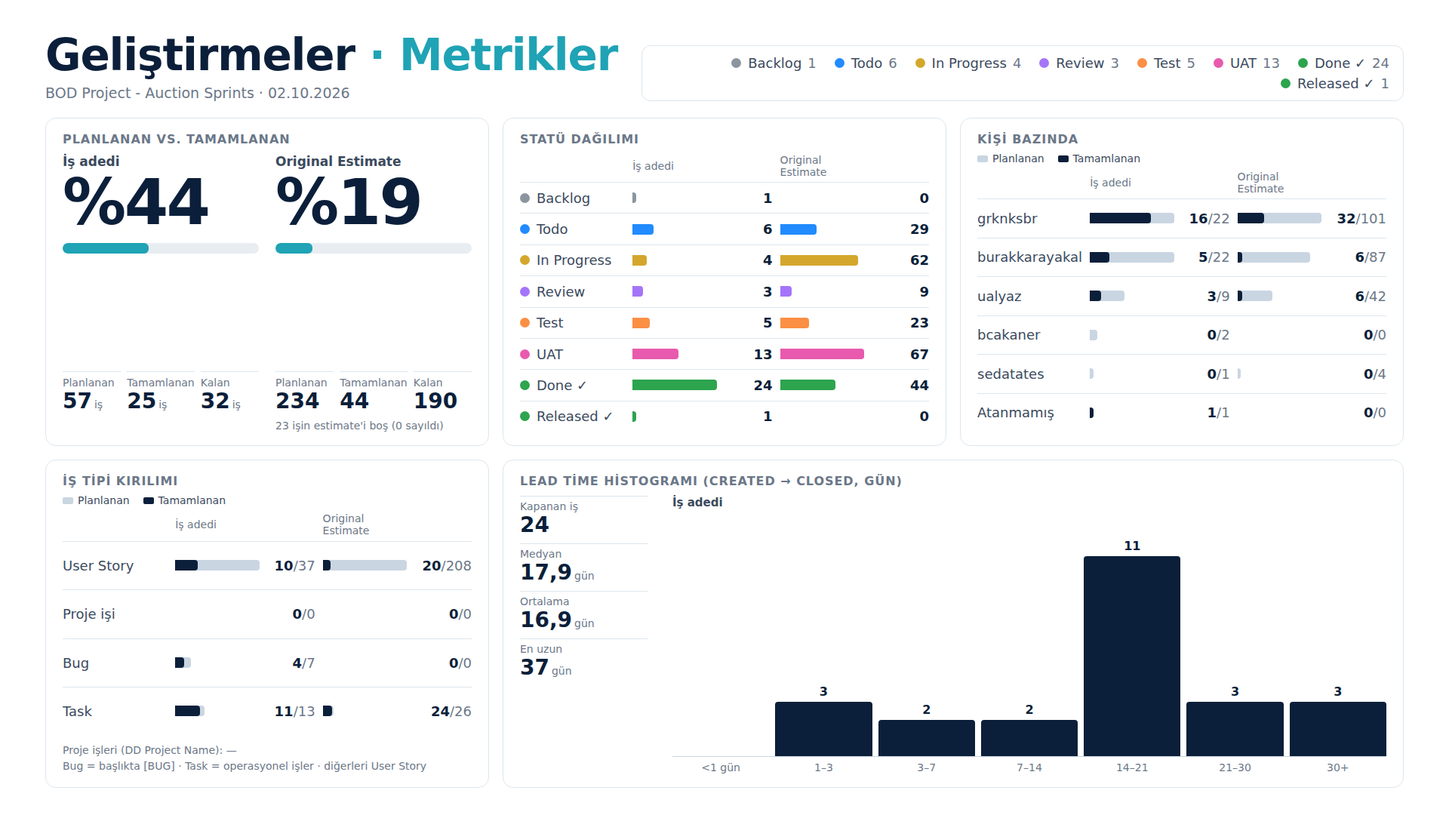
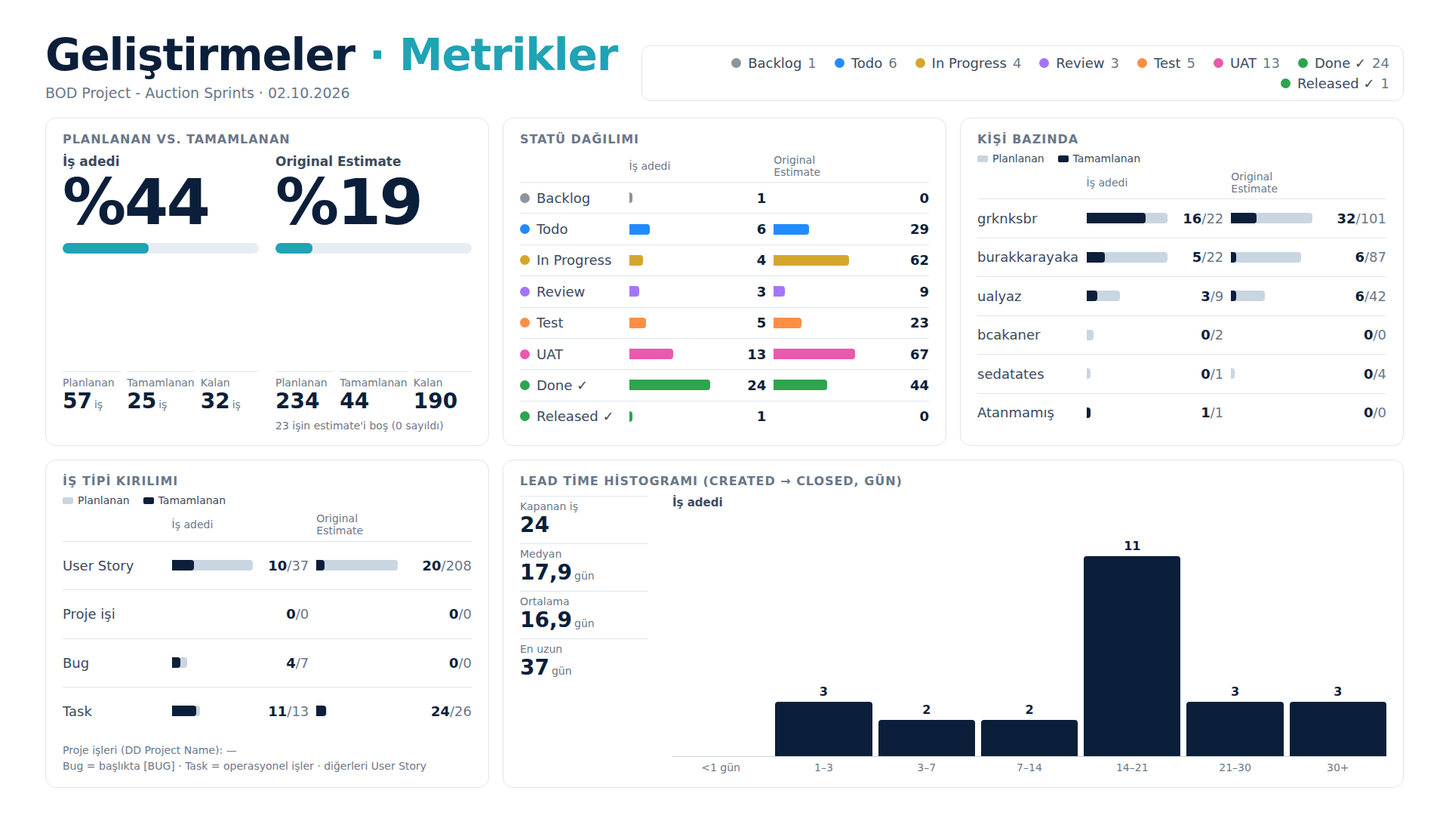
Add Back Office slides; widen value column and balance item columns
Claude-Session: https://claude.ai/code/session_014SYUQQBmb2NC56QaszpaqB

diff --git a/sunum/back-office/back-office-slaytlar.html b/sunum/back-office/back-office-slaytlar.html
@@ -1,0 +1,199 @@
+<!doctype html>
+<html lang="tr">
+<head>
+<meta charset="utf-8">
+<meta name="viewport" content="width=device-width, initial-scale=1">
+<title>Geliştirmeler Slaytları</title>
+<link rel="preconnect" href="https://fonts.googleapis.com">
+<link href="https://fonts.googleapis.com/css2?family=Plus+Jakarta+Sans:wght@400;500;600;800&display=swap" rel="stylesheet">
+<style>
+:root { --bg:#E9EDF2; --slide:#FFFFFF; --ink:#0B1F3A; --ink-2:#3B4A5E; --muted:#6B7788;
+  --rule:#DCE6EE; --accent:#1FA3B5; --track:#E8EDF2; --plan:#C9D5E1; --s:1; }
+* { box-sizing:border-box; }
+body { margin:0; background:var(--bg); color:var(--ink);
+  font-family:"Plus Jakarta Sans", Inter, system-ui, -apple-system, "Segoe UI", sans-serif; }
+.deck { display:flex; flex-direction:column; align-items:center; gap:24px; padding:24px 0; }
+.frame { width:calc(1920px * var(--s)); height:calc(1080px * var(--s)); overflow:hidden;
+  box-shadow:0 2px 12px rgba(11,31,58,.12); }
+.slide { width:1920px; height:1080px; background:var(--slide); padding:44px 60px 36px;
+  transform:scale(var(--s)); transform-origin:0 0; display:flex; flex-direction:column; }
+header { display:flex; align-items:flex-end; justify-content:space-between; gap:32px; margin-bottom:22px; }
+h1 { white-space:nowrap; font-size:58px; font-weight:800; letter-spacing:-.02em; margin:0; line-height:1; }
+h1 span { color:var(--accent); font-weight:600; }
+.sub { color:var(--muted); font-size:19px; margin-top:10px; white-space:nowrap; }
+.legend { list-style:none; margin:0; padding:12px 18px; display:flex; flex-wrap:wrap; gap:6px 24px;
+  border:1px solid var(--rule); border-radius:12px; font-size:18px; color:var(--ink-2); justify-content:flex-end; min-width:0; flex:0 1 auto; }
+.legend li { display:flex; align-items:center; }
+.legend .muted { margin-left:8px; color:var(--muted); font-variant-numeric:tabular-nums; }
+.dot { display:inline-block; width:13px; height:13px; border-radius:50%; background:var(--c); margin-right:9px; flex:none; }
+/* metrikler */
+.grid { flex:1; min-height:0; display:grid; grid-template-columns:repeat(3, minmax(0,1fr));
+  grid-template-rows:minmax(0,1fr) minmax(0,1fr); gap:18px; }
+.panel { border:1px solid var(--rule); border-radius:14px; padding:18px 22px; display:flex; flex-direction:column; min-height:0; }
+.panel.wide { grid-column:span 2; }
+.ptitle { font-size:16px; font-weight:600; text-transform:uppercase; letter-spacing:.06em; color:var(--muted); margin-bottom:10px; }
+.pfoot { font-size:14px; color:var(--muted); margin-top:auto; padding-top:10px; line-height:1.45; }
+.pfoot b { color:var(--ink); }
+.comps { display:grid; grid-template-columns:1fr 1fr; gap:22px; flex:1; }
+.comp { display:flex; flex-direction:column; }
+.clabel { font-size:17px; color:var(--ink-2); font-weight:600; }
+.chero { font-size:84px; font-weight:800; line-height:1.05; letter-spacing:-.03em; font-variant-numeric:tabular-nums; }
+.bar { height:14px; border-radius:7px; background:var(--track); overflow:hidden; margin:10px 0 auto; }
+.bar i { display:block; height:100%; background:var(--accent); border-radius:6px; }
+.cnums { display:grid; grid-template-columns:repeat(3,1fr); gap:8px; }
+.cnums div { display:flex; flex-direction:column; border-top:1px solid var(--rule); padding-top:6px; }
+.cnums span { font-size:14px; color:var(--muted); }
+.cnums b { font-size:28px; font-variant-numeric:tabular-nums; white-space:nowrap; }
+.cnums small, .lstats small { font-size:14px; font-weight:400; color:var(--muted); margin-left:3px; }
+.cnote { font-size:14px; color:var(--muted); margin-top:8px; }
+.dual { display:flex; flex-direction:column; flex:1; justify-content:space-evenly; }
+.dhead, .drow { display:grid; grid-template-columns:minmax(0,1.25fr) minmax(0,1fr) 64px minmax(0,1fr) 88px;
+  column-gap:10px; align-items:center; }
+.dhead { font-size:14px; color:var(--muted); padding-bottom:5px; }
+.drow { border-top:1px solid var(--rule); padding:6px 0; font-size:18px; flex:1; max-height:64px; }
+.dl { overflow:hidden; text-overflow:ellipsis; white-space:nowrap; color:var(--ink-2); display:flex; align-items:center; }
+.db { position:relative; height:14px; }
+.tr, .fi { position:absolute; left:0; top:0; height:100%; border-radius:0 4px 4px 0; }
+.tr { background:var(--plan); } .fi { background:var(--ink); }
+.dv { text-align:right; font-weight:600; font-variant-numeric:tabular-nums; white-space:nowrap; }
+.dv span { color:var(--muted); font-weight:400; }
+.pkey { display:flex; gap:18px; font-size:14px; color:var(--ink-2); margin:-2px 0 8px; }
+.pkey span::before { content:""; display:inline-block; width:14px; height:9px; border-radius:2px; margin-right:6px; background:var(--k); }
+.lead { display:grid; grid-template-columns:170px 1fr; gap:32px; flex:1; min-height:0; }
+.lstats { display:flex; flex-direction:column; gap:8px; }
+.lstats div { display:flex; flex-direction:column; border-top:1px solid var(--rule); padding-top:5px; }
+.lstats span { font-size:14px; color:var(--muted); }
+.lstats b { font-size:28px; font-variant-numeric:tabular-nums; }
+.hist { display:flex; flex-direction:column; min-height:0; }
+.htitle { font-size:15px; color:var(--ink-2); font-weight:600; margin-bottom:4px; }
+.hplot { flex:1; min-height:100px; display:flex; align-items:flex-end; gap:8px; border-bottom:1px solid var(--plan); }
+.hcol { flex:1; height:100%; display:flex; flex-direction:column; justify-content:flex-end; }
+.hval { text-align:center; font-size:16px; font-weight:600; font-variant-numeric:tabular-nums; margin-bottom:4px; }
+.hbar { border-radius:4px 4px 0 0; }
+.hx { display:flex; gap:8px; font-size:14px; color:var(--muted); margin-top:6px; }
+.hx div { flex:1; text-align:center; white-space:nowrap; }
+.hunit { font-size:13px; color:var(--muted); text-align:right; margin-top:2px; }
+.emptymsg { margin:auto; font-size:20px; color:var(--ink-2); }
+/* maddeler */
+.list { flex:1; min-height:0; list-style:none; margin:0; padding:0; columns:3; column-gap:56px;
+  column-fill:auto; column-rule:1px solid var(--accent); --fs:22px; overflow:hidden; }
+.list li { break-inside:avoid; display:flex; align-items:flex-start; gap:2px; padding:calc(var(--fs) * .42) 0;
+  border-bottom:1px solid var(--rule); font-size:var(--fs); line-height:1.28; font-weight:500; }
+.list .dot { width:calc(var(--fs) * .55); height:calc(var(--fs) * .55); margin-top:calc(var(--fs) * .38); }
+.list .t { flex:1; }
+.est { font-size:calc(var(--fs) * .7); color:var(--muted); border:1px solid var(--rule); border-radius:999px;
+  padding:1px 8px; margin:2px 0 0 8px; white-space:nowrap; }
+@media print {
+  @page { size:1920px 1080px; margin:0; }
+  body { background:none; } .deck { padding:0; gap:0; } .frame { box-shadow:none; break-after:page; }
+}
+</style>
+</head>
+<body>
+<div class="deck">
+<div class="frame"><section class="slide" id="s1" aria-label="Metrikler">
+  <header>
+    <div><h1>Geliştirmeler <span>· Metrikler</span></h1><div class="sub">BOD Project - Back Office Sprints · 02.10.2026</div></div>
+    <ul class="legend" aria-label="Statü lejantı"><li><span class="dot" style="--c:#218BFF"></span>Todo<span class="muted">4</span></li><li><span class="dot" style="--c:#D4A72C"></span>In Progress<span class="muted">3</span></li><li><span class="dot" style="--c:#A475F9"></span>Review<span class="muted">1</span></li><li><span class="dot" style="--c:#FB8F44"></span>Test<span class="muted">8</span></li><li><span class="dot" style="--c:#E85AAD"></span>UAT<span class="muted">6</span></li><li><span class="dot" style="--c:#2DA44E"></span>Done ✓<span class="muted">12</span></li></ul>
+  </header>
+  <div class="grid">
+    <div class="panel"><div class="ptitle">Planlanan vs. tamamlanan</div>
+      <div class="comps">
+<div class="comp">
+  <div class="clabel">İş adedi</div>
+  <div class="chero">%35</div>
+  <div class="bar"><i style="width:35.29%"></i></div>
+  <div class="cnums">
+    <div><span>Planlanan</span><b>34<small>iş</small></b></div>
+    <div><span>Tamamlanan</span><b>12<small>iş</small></b></div>
+    <div><span>Kalan</span><b>22<small>iş</small></b></div>
+  </div>
+  <div class="cnote">&nbsp;</div>
+</div>
+<div class="comp">
+  <div class="clabel">Original Estimate</div>
+  <div class="chero">%47</div>
+  <div class="bar"><i style="width:46.98%"></i></div>
+  <div class="cnums">
+    <div><span>Planlanan</span><b>364</b></div>
+    <div><span>Tamamlanan</span><b>171</b></div>
+    <div><span>Kalan</span><b>193</b></div>
+  </div>
+  <div class="cnote">5 işin estimate'i boş (0 sayıldı)</div>
+</div></div></div>
+    <div class="panel"><div class="ptitle">Statü dağılımı</div><div class="dual"><div class="dhead"><span></span><span>İş adedi</span><span></span><span>Original Estimate</span><span></span></div><div class="drow"><div class="dl" title="Todo"><span class="dot" style="--c:#218BFF"></span>Todo</div><div class="db" title="Todo: 4 iş"><div class="fi" style="width:33.33%;background:#218BFF"></div></div><div class="dv">4</div><div class="db" title="Todo: 0 Original Estimate"><div class="fi" style="width:0.00%;background:#218BFF"></div></div><div class="dv">0</div></div><div class="drow"><div class="dl" title="In Progress"><span class="dot" style="--c:#D4A72C"></span>In Progress</div><div class="db" title="In Progress: 3 iş"><div class="fi" style="width:25.00%;background:#D4A72C"></div></div><div class="dv">3</div><div class="db" title="In Progress: 28 Original Estimate"><div class="fi" style="width:16.37%;background:#D4A72C"></div></div><div class="dv">28</div></div><div class="drow"><div class="dl" title="Review"><span class="dot" style="--c:#A475F9"></span>Review</div><div class="db" title="Review: 1 iş"><div class="fi" style="width:8.33%;background:#A475F9"></div></div><div class="dv">1</div><div class="db" title="Review: 24 Original Estimate"><div class="fi" style="width:14.04%;background:#A475F9"></div></div><div class="dv">24</div></div><div class="drow"><div class="dl" title="Test"><span class="dot" style="--c:#FB8F44"></span>Test</div><div class="db" title="Test: 8 iş"><div class="fi" style="width:66.67%;background:#FB8F44"></div></div><div class="dv">8</div><div class="db" title="Test: 63 Original Estimate"><div class="fi" style="width:36.84%;background:#FB8F44"></div></div><div class="dv">63</div></div><div class="drow"><div class="dl" title="UAT"><span class="dot" style="--c:#E85AAD"></span>UAT</div><div class="db" title="UAT: 6 iş"><div class="fi" style="width:50.00%;background:#E85AAD"></div></div><div class="dv">6</div><div class="db" title="UAT: 78 Original Estimate"><div class="fi" style="width:45.61%;background:#E85AAD"></div></div><div class="dv">78</div></div><div class="drow"><div class="dl" title="Done ✓"><span class="dot" style="--c:#2DA44E"></span>Done ✓</div><div class="db" title="Done ✓: 12 iş"><div class="fi" style="width:100.00%;background:#2DA44E"></div></div><div class="dv">12</div><div class="db" title="Done ✓: 171 Original Estimate"><div class="fi" style="width:100.00%;background:#2DA44E"></div></div><div class="dv">171</div></div></div></div>
+    <div class="panel"><div class="ptitle">Kişi bazında</div>
+      <div class="pkey"><span style="--k:var(--plan)">Planlanan</span><span style="--k:var(--ink)">Tamamlanan</span></div>
+      <div class="dual"><div class="dhead"><span></span><span>İş adedi</span><span></span><span>Original Estimate</span><span></span></div><div class="drow"><div class="dl" title="icolakkeskin2">icolakkeskin2</div><div class="db" title="icolakkeskin2: 10 iş"><div class="tr" style="width:100.00%"></div><div class="fi" style="width:30.00%"></div></div><div class="dv">3<span>/10</span></div><div class="db" title="icolakkeskin2: 140 Original Estimate"><div class="tr" style="width:100.00%"></div><div class="fi" style="width:31.43%"></div></div><div class="dv">44<span>/140</span></div></div><div class="drow"><div class="dl" title="MehmetCanOzkan">MehmetCanOzkan</div><div class="db" title="MehmetCanOzkan: 7 iş"><div class="tr" style="width:70.00%"></div><div class="fi" style="width:10.00%"></div></div><div class="dv">1<span>/7</span></div><div class="db" title="MehmetCanOzkan: 28 Original Estimate"><div class="tr" style="width:20.00%"></div><div class="fi" style="width:2.86%"></div></div><div class="dv">4<span>/28</span></div></div><div class="drow"><div class="dl" title="ugurcansokenb">ugurcansokenb</div><div class="db" title="ugurcansokenb: 5 iş"><div class="tr" style="width:50.00%"></div><div class="fi" style="width:30.00%"></div></div><div class="dv">3<span>/5</span></div><div class="db" title="ugurcansokenb: 49 Original Estimate"><div class="tr" style="width:35.00%"></div><div class="fi" style="width:31.43%"></div></div><div class="dv">44<span>/49</span></div></div><div class="drow"><div class="dl" title="serdargokhan">serdargokhan</div><div class="db" title="serdargokhan: 4 iş"><div class="tr" style="width:40.00%"></div><div class="fi" style="width:10.00%"></div></div><div class="dv">1<span>/4</span></div><div class="db" title="serdargokhan: 35 Original Estimate"><div class="tr" style="width:25.00%"></div><div class="fi" style="width:2.14%"></div></div><div class="dv">3<span>/35</span></div></div><div class="drow"><div class="dl" title="muratkaygusuz">muratkaygusuz</div><div class="db" title="muratkaygusuz: 3 iş"><div class="tr" style="width:30.00%"></div><div class="fi" style="width:0.00%"></div></div><div class="dv">0<span>/3</span></div><div class="db" title="muratkaygusuz: 64 Original Estimate"><div class="tr" style="width:45.71%"></div><div class="fi" style="width:0.00%"></div></div><div class="dv">0<span>/64</span></div></div><div class="drow"><div class="dl" title="nilgunsencer">nilgunsencer</div><div class="db" title="nilgunsencer: 3 iş"><div class="tr" style="width:30.00%"></div><div class="fi" style="width:20.00%"></div></div><div class="dv">2<span>/3</span></div><div class="db" title="nilgunsencer: 52 Original Estimate"><div class="tr" style="width:37.14%"></div><div class="fi" style="width:37.14%"></div></div><div class="dv">52<span>/52</span></div></div><div class="drow"><div class="dl" title="ilkerisik">ilkerisik</div><div class="db" title="ilkerisik: 3 iş"><div class="tr" style="width:30.00%"></div><div class="fi" style="width:20.00%"></div></div><div class="dv">2<span>/3</span></div><div class="db" title="ilkerisik: 28 Original Estimate"><div class="tr" style="width:20.00%"></div><div class="fi" style="width:17.14%"></div></div><div class="dv">24<span>/28</span></div></div><div class="drow"><div class="dl" title="Atanmamış">Atanmamış</div><div class="db" title="Atanmamış: 1 iş"><div class="tr" style="width:10.00%"></div><div class="fi" style="width:0.00%"></div></div><div class="dv">0<span>/1</span></div><div class="db" title="Atanmamış: 0 Original Estimate"><div class="tr" style="width:0.00%"></div><div class="fi" style="width:0.00%"></div></div><div class="dv">0<span>/0</span></div></div><div class="drow"><div class="dl" title="sesanli">sesanli</div><div class="db" title="sesanli: 1 iş"><div class="tr" style="width:10.00%"></div><div class="fi" style="width:0.00%"></div></div><div class="dv">0<span>/1</span></div><div class="db" title="sesanli: 0 Original Estimate"><div class="tr" style="width:0.00%"></div><div class="fi" style="width:0.00%"></div></div><div class="dv">0<span>/0</span></div></div></div></div>
+    <div class="panel"><div class="ptitle">İş tipi kırılımı</div>
+      <div class="pkey"><span style="--k:var(--plan)">Planlanan</span><span style="--k:var(--ink)">Tamamlanan</span></div>
+      <div class="dual"><div class="dhead"><span></span><span>İş adedi</span><span></span><span>Original Estimate</span><span></span></div><div class="drow"><div class="dl" title="User Story">User Story</div><div class="db" title="User Story: 2 iş"><div class="tr" style="width:6.25%"></div><div class="fi" style="width:3.12%"></div></div><div class="dv">1<span>/2</span></div><div class="db" title="User Story: 44 Original Estimate"><div class="tr" style="width:13.75%"></div><div class="fi" style="width:5.00%"></div></div><div class="dv">16<span>/44</span></div></div><div class="drow"><div class="dl" title="Proje işi">Proje işi</div><div class="db" title="Proje işi: 32 iş"><div class="tr" style="width:100.00%"></div><div class="fi" style="width:34.38%"></div></div><div class="dv">11<span>/32</span></div><div class="db" title="Proje işi: 320 Original Estimate"><div class="tr" style="width:100.00%"></div><div class="fi" style="width:48.44%"></div></div><div class="dv">155<span>/320</span></div></div><div class="drow"><div class="dl" title="Bug">Bug</div><div class="db" title="Bug: 0 iş"><div class="tr" style="width:0.00%"></div><div class="fi" style="width:0.00%"></div></div><div class="dv">0<span>/0</span></div><div class="db" title="Bug: 0 Original Estimate"><div class="tr" style="width:0.00%"></div><div class="fi" style="width:0.00%"></div></div><div class="dv">0<span>/0</span></div></div><div class="drow"><div class="dl" title="Task">Task</div><div class="db" title="Task: 0 iş"><div class="tr" style="width:0.00%"></div><div class="fi" style="width:0.00%"></div></div><div class="dv">0<span>/0</span></div><div class="db" title="Task: 0 Original Estimate"><div class="tr" style="width:0.00%"></div><div class="fi" style="width:0.00%"></div></div><div class="dv">0<span>/0</span></div></div></div>
+      <div class="pfoot">Proje işleri (DD Project Name): BOD-BOost for Used Car <b>32</b><br>
+      Bug = başlıkta [BUG] · Task = operasyonel işler · diğerleri User Story</div></div>
+    <div class="panel wide"><div class="ptitle">Lead time histogramı (Created → Closed, gün)</div>
+      <div class="lead"><div class="lstats"><div><span>Kapanan iş</span><b>12</b></div><div><span>Medyan</span><b>9,2<small>gün</small></b></div><div><span>Ortalama</span><b>8,2<small>gün</small></b></div><div><span>En uzun</span><b>15,1<small>gün</small></b></div></div><div class="hist"><div class="htitle">İş adedi</div><div class="hplot"><div class="hcol" title="&lt;1 gün gün: 1"><div class="hval">1</div><div class="hbar" style="height:11.71%;background:var(--ink)"></div></div><div class="hcol" title="1–3 gün: 1"><div class="hval">1</div><div class="hbar" style="height:11.71%;background:var(--ink)"></div></div><div class="hcol" title="3–7 gün: 2"><div class="hval">2</div><div class="hbar" style="height:23.43%;background:var(--ink)"></div></div><div class="hcol" title="7–14 gün: 7"><div class="hval">7</div><div class="hbar" style="height:82.00%;background:var(--ink)"></div></div><div class="hcol" title="14–21 gün: 1"><div class="hval">1</div><div class="hbar" style="height:11.71%;background:var(--ink)"></div></div></div><div class="hx"><div>&lt;1 gün</div><div>1–3</div><div>3–7</div><div>7–14</div><div>14–21</div></div></div></div></div>
+  </div>
+</section></div>
+
+<div class="frame"><section class="slide" id="s2" aria-label="Maddeler">
+  <header>
+    <div><h1>Geliştirmeler</h1><div class="sub">BOD Project - Back Office Sprints · 02.10.2026 · 34 iş · ✓ = tamamlandı · rozet = Original Estimate</div></div>
+    <ul class="legend" aria-label="Statü lejantı"><li><span class="dot" style="--c:#218BFF"></span>Todo<span class="muted">4</span></li><li><span class="dot" style="--c:#D4A72C"></span>In Progress<span class="muted">3</span></li><li><span class="dot" style="--c:#A475F9"></span>Review<span class="muted">1</span></li><li><span class="dot" style="--c:#FB8F44"></span>Test<span class="muted">8</span></li><li><span class="dot" style="--c:#E85AAD"></span>UAT<span class="muted">6</span></li><li><span class="dot" style="--c:#2DA44E"></span>Done ✓<span class="muted">12</span></li></ul>
+  </header>
+  <ul class="list">
+<li><span class="dot" style="--c:#218BFF"></span><span class="t">21-09 / 02-10 Sprint 3 Toplantı Taskı</span></li>
+<li><span class="dot" style="--c:#218BFF"></span><span class="t">Araç Alım Faturası İptal Servisinin Geliştirilmesi (Boomi)</span></li>
+<li><span class="dot" style="--c:#218BFF"></span><span class="t">SAP Notlar</span></li>
+<li><span class="dot" style="--c:#218BFF"></span><span class="t">SF Beklenenler</span></li>
+<li><span class="dot" style="--c:#D4A72C"></span><span class="t">Araç Alım Faturası İptal Servisinin Geliştirilmesi (SAP)</span></li>
+<li><span class="dot" style="--c:#D4A72C"></span><span class="t">BOI/BOPK - BOD Satış süreçlerinin entegrasyonu (Sap,devir süreçler, stoklaşma) Analizi</span><span class="est">24</span></li>
+<li><span class="dot" style="--c:#D4A72C"></span><span class="t">IDN-00 | Identity Ayrımı Kapsamının ve Hedef Mimarisinin Belirlenmesi</span><span class="est">4</span></li>
+<li><span class="dot" style="--c:#A475F9"></span><span class="t">Araç Opsiyonlama Analizi</span><span class="est">24</span></li>
+<li><span class="dot" style="--c:#FB8F44"></span><span class="t">Ekran Kullanım Oranları -Google Analytics</span><span class="est">16</span></li>
+<li><span class="dot" style="--c:#FB8F44"></span><span class="t">Jarvis Araç Stok Görüntüleme Ekranı Filtre Yapısının Revize Edilmesi BE</span><span class="est">4</span></li>
+<li><span class="dot" style="--c:#FB8F44"></span><span class="t">Jarvis Araç Stok Görüntüleme Ekranı Filtre Yapısının Revize Edilmesi FE</span><span class="est">5</span></li>
+<li><span class="dot" style="--c:#FB8F44"></span><span class="t">Jarvise Araç Fiziki Yer Değişiklik Alanı Eklenmesi -Sevk İşlemleri</span><span class="est">8</span></li>
+<li><span class="dot" style="--c:#FB8F44"></span><span class="t">Jarvise Araç İş Emirleri-Sevk Detay</span><span class="est">16</span></li>
+<li><span class="dot" style="--c:#FB8F44"></span><span class="t">SAP createInvoice Servisinde Budat Alanının PurchaseTransferDate ile Güncellenmesi</span><span class="est">2</span></li>
+<li><span class="dot" style="--c:#FB8F44"></span><span class="t">Sevk İşlemleri Ekranına Toplu Sevk Talebi Butonu Eklenmesi Önyüz Tasarımı</span><span class="est">8</span></li>
+<li><span class="dot" style="--c:#FB8F44"></span><span class="t">TSB Kodu Entegrasyonu (BE)</span><span class="est">4</span></li>
+<li><span class="dot" style="--c:#E85AAD"></span><span class="t">Araç Fiziki Yer Değişimi Servislerinin oluşturulması</span><span class="est">36</span></li>
+<li><span class="dot" style="--c:#E85AAD"></span><span class="t">Araçlar Ekranında Döşeme Bilgisinin Gösterilmesi FE</span><span class="est">1</span></li>
+<li><span class="dot" style="--c:#E85AAD"></span><span class="t">Döşeme Kod ve Tanımının Eklenmesi</span><span class="est">4</span></li>
+<li><span class="dot" style="--c:#E85AAD"></span><span class="t">Jarvis Araç Stok Görüntüleme Ekranı Liste Yapısının Revize Edilmesi BE</span><span class="est">4</span></li>
+<li><span class="dot" style="--c:#E85AAD"></span><span class="t">Jarvis Araç Stok Görüntüleme Ekranı Liste Yapısının Revize Edilmesi FE</span><span class="est">5</span></li>
+<li><span class="dot" style="--c:#E85AAD"></span><span class="t">Satınalma Süreci Jarviste Yapılacak Değişiklikler</span><span class="est">28</span></li>
+<li><span class="dot" style="--c:#2DA44E"></span><span class="t">.Net versiyon Yükseltmesi Teknik Analizi</span><span class="est">16</span></li>
+<li><span class="dot" style="--c:#2DA44E"></span><span class="t">Araç Fiziki Yer Değişimi BE İhtiyaçlarının Belirlenmesi</span><span class="est">8</span></li>
+<li><span class="dot" style="--c:#2DA44E"></span><span class="t">Araçlar Ekranına Araba Bilgi Formu Alanının Eklenmesi</span><span class="est">3</span></li>
+<li><span class="dot" style="--c:#2DA44E"></span><span class="t">Boost araç search senaryolarının eklenmesi</span><span class="est">8</span></li>
+<li><span class="dot" style="--c:#2DA44E"></span><span class="t">Boost Araçlar Detay sayfasının otomasyonlarının hazırlanması</span><span class="est">12</span></li>
+<li><span class="dot" style="--c:#2DA44E"></span><span class="t">Boost Araçlar Sayfasının Otomasyonlarının Hazırlanması</span><span class="est">24</span></li>
+<li><span class="dot" style="--c:#2DA44E"></span><span class="t">Doküman Birleştirme</span><span class="est">12</span></li>
+<li><span class="dot" style="--c:#2DA44E"></span><span class="t">Fizik Yer Değişikliği ile İlgili Testler- Netleştirmeler (Ek Toplantı- Hizalanma)</span><span class="est">40</span></li>
+<li><span class="dot" style="--c:#2DA44E"></span><span class="t">Kullanıcı Klavuz Dokümanının Hazırlanması</span><span class="est">8</span></li>
+<li><span class="dot" style="--c:#2DA44E"></span><span class="t">Stok İşlemleri Ters Kayıt Süreci Teknik Analiz</span><span class="est">32</span></li>
+<li><span class="dot" style="--c:#2DA44E"></span><span class="t">TSB Kodu Entegrasyonu Teknik Analiz</span><span class="est">4</span></li>
+<li><span class="dot" style="--c:#2DA44E"></span><span class="t">UcBoost Lokasyon Harita Entegrasyonu BE</span><span class="est">4</span></li>
+  </ul>
+</section></div>
+</div>
+<script>
+(() => {
+  // Maddeler slaytına sığana kadar yazı boyutunu küçült
+  const list = document.querySelector('.list');
+  let fs = 22;
+  const fits = () => list.scrollWidth <= list.clientWidth + 1 && list.scrollHeight <= list.clientHeight + 1;
+  list.style.setProperty('--fs', fs + 'px');
+  while (!fits() && fs > 11) { fs -= 0.5; list.style.setProperty('--fs', fs + 'px'); }
+  // Sığdıysa kolonları dengele; dengeli hali taşarsa geri al
+  list.style.columnFill = 'balance';
+  if (!fits()) list.style.columnFill = 'auto';
+  document.body.dataset.fitted = fs;
+  const scale = () => document.documentElement.style.setProperty('--s',
+    Math.min(1, (innerWidth - 32) / 1920).toFixed(4));
+  scale(); addEventListener('resize', scale);
+})();
+</script>
+</body>
+</html>

diff --git a/sunum/auction/auction-slaytlar.html b/sunum/auction/auction-slaytlar.html
@@ -47,7 +47,7 @@ h1 span { color:var(--accent); font-weight:600; }
 .cnums small, .lstats small { font-size:14px; font-weight:400; color:var(--muted); margin-left:3px; }
 .cnote { font-size:14px; color:var(--muted); margin-top:8px; }
 .dual { display:flex; flex-direction:column; flex:1; justify-content:space-evenly; }
-.dhead, .drow { display:grid; grid-template-columns:minmax(0,1.25fr) minmax(0,1fr) 64px minmax(0,1fr) 76px;
+.dhead, .drow { display:grid; grid-template-columns:minmax(0,1.25fr) minmax(0,1fr) 64px minmax(0,1fr) 88px;
   column-gap:10px; align-items:center; }
 .dhead { font-size:14px; color:var(--muted); padding-bottom:5px; }
 .drow { border-top:1px solid var(--rule); padding:6px 0; font-size:18px; flex:1; max-height:64px; }
@@ -209,6 +209,9 @@ h1 span { color:var(--accent); font-weight:600; }
   const fits = () => list.scrollWidth <= list.clientWidth + 1 && list.scrollHeight <= list.clientHeight + 1;
   list.style.setProperty('--fs', fs + 'px');
   while (!fits() && fs > 11) { fs -= 0.5; list.style.setProperty('--fs', fs + 'px'); }
+  // Sığdıysa kolonları dengele; dengeli hali taşarsa geri al
+  list.style.columnFill = 'balance';
+  if (!fits()) list.style.columnFill = 'auto';
   document.body.dataset.fitted = fs;
   const scale = () => document.documentElement.style.setProperty('--s',
     Math.min(1, (innerWidth - 32) / 1920).toFixed(4));

diff --git a/sunum/gelistirmeler-slaytlar.html b/sunum/gelistirmeler-slaytlar.html
@@ -47,7 +47,7 @@ h1 span { color:var(--accent); font-weight:600; }
 .cnums small, .lstats small { font-size:14px; font-weight:400; color:var(--muted); margin-left:3px; }
 .cnote { font-size:14px; color:var(--muted); margin-top:8px; }
 .dual { display:flex; flex-direction:column; flex:1; justify-content:space-evenly; }
-.dhead, .drow { display:grid; grid-template-columns:minmax(0,1.25fr) minmax(0,1fr) 64px minmax(0,1fr) 76px;
+.dhead, .drow { display:grid; grid-template-columns:minmax(0,1.25fr) minmax(0,1fr) 64px minmax(0,1fr) 88px;
   column-gap:10px; align-items:center; }
 .dhead { font-size:14px; color:var(--muted); padding-bottom:5px; }
 .drow { border-top:1px solid var(--rule); padding:6px 0; font-size:18px; flex:1; max-height:64px; }
@@ -202,6 +202,9 @@ h1 span { color:var(--accent); font-weight:600; }
   const fits = () => list.scrollWidth <= list.clientWidth + 1 && list.scrollHeight <= list.clientHeight + 1;
   list.style.setProperty('--fs', fs + 'px');
   while (!fits() && fs > 11) { fs -= 0.5; list.style.setProperty('--fs', fs + 'px'); }
+  // Sığdıysa kolonları dengele; dengeli hali taşarsa geri al
+  list.style.columnFill = 'balance';
+  if (!fits()) list.style.columnFill = 'auto';
   document.body.dataset.fitted = fs;
   const scale = () => document.documentElement.style.setProperty('--s',
     Math.min(1, (innerWidth - 32) / 1920).toFixed(4));

diff --git a/.claude/skills/gelistirmeler-raporu/scripts/build_slides.py b/.claude/skills/gelistirmeler-raporu/scripts/build_slides.py
@@ -324,7 +324,7 @@ h1 span {{ color:var(--accent); font-weight:600; }}
 .cnums small, .lstats small {{ font-size:14px; font-weight:400; color:var(--muted); margin-left:3px; }}
 .cnote {{ font-size:14px; color:var(--muted); margin-top:8px; }}
 .dual {{ display:flex; flex-direction:column; flex:1; justify-content:space-evenly; }}
-.dhead, .drow {{ display:grid; grid-template-columns:minmax(0,1.25fr) minmax(0,1fr) 64px minmax(0,1fr) 76px;
+.dhead, .drow {{ display:grid; grid-template-columns:minmax(0,1.25fr) minmax(0,1fr) 64px minmax(0,1fr) 88px;
   column-gap:10px; align-items:center; }}
 .dhead {{ font-size:14px; color:var(--muted); padding-bottom:5px; }}
 .drow {{ border-top:1px solid var(--rule); padding:6px 0; font-size:18px; flex:1; max-height:64px; }}
@@ -408,6 +408,9 @@ h1 span {{ color:var(--accent); font-weight:600; }}
   const fits = () => list.scrollWidth <= list.clientWidth + 1 && list.scrollHeight <= list.clientHeight + 1;
   list.style.setProperty('--fs', fs + 'px');
   while (!fits() && fs > 11) {{ fs -= 0.5; list.style.setProperty('--fs', fs + 'px'); }}
+  // Sığdıysa kolonları dengele; dengeli hali taşarsa geri al
+  list.style.columnFill = 'balance';
+  if (!fits()) list.style.columnFill = 'auto';
   document.body.dataset.fitted = fs;
   const scale = () => document.documentElement.style.setProperty('--s',
     Math.min(1, (innerWidth - 32) / 1920).toFixed(4));

diff --git a/.claude/skills/gelistirmeler-raporu/SKILL.md b/.claude/skills/gelistirmeler-raporu/SKILL.md
@@ -128,6 +128,8 @@ erişimi gerekmez. Dikkat edilecekler:
   Done/Released yeşil; bilinmeyenler gri). Bilinen statüler iş akışı sırasına dizilir
   (Backlog → Todo → In Progress → Review → Test → UAT → Done → Released).
 - Takım başına ayrı export gelirse her biri için ayrı klasöre (`sunum/<takım>/`) üret.
+  Export'ta başka board'lardan satır varsa (`Board` sütununa bak) takımın board'una
+  filtrele, ör. `--filter 'board:"Back Office"'`, ve dışarıda kalanları kullanıcıya söyle.
 - Yalnızca görünümde açık olan sütunlar dışa aktarılır. `Original Estimate` sütunu
   yoksa grafikler **iş adedi** üzerinden çizilir ve raporda not düşülür — kullanıcıya
   eforlu oran için alanı görünüme ekleyip yeniden dışa aktarmasını öner.
